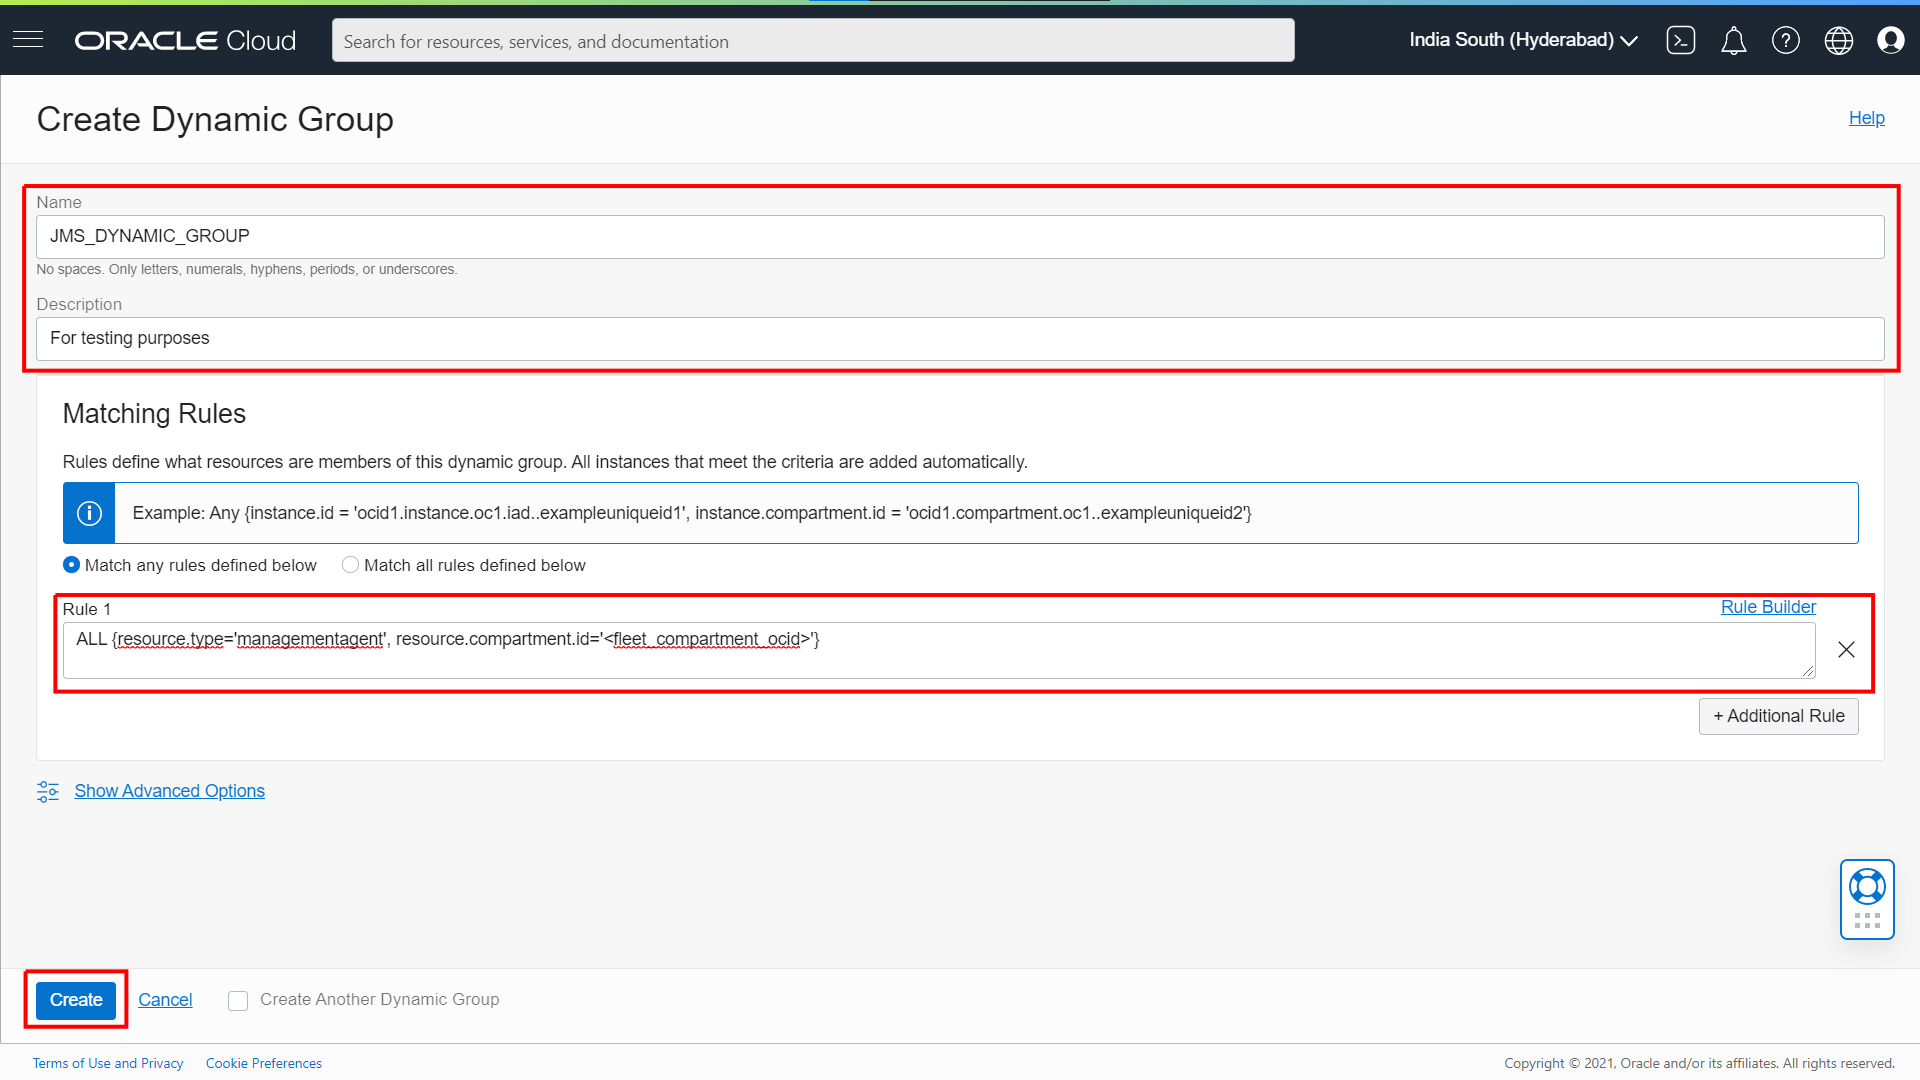
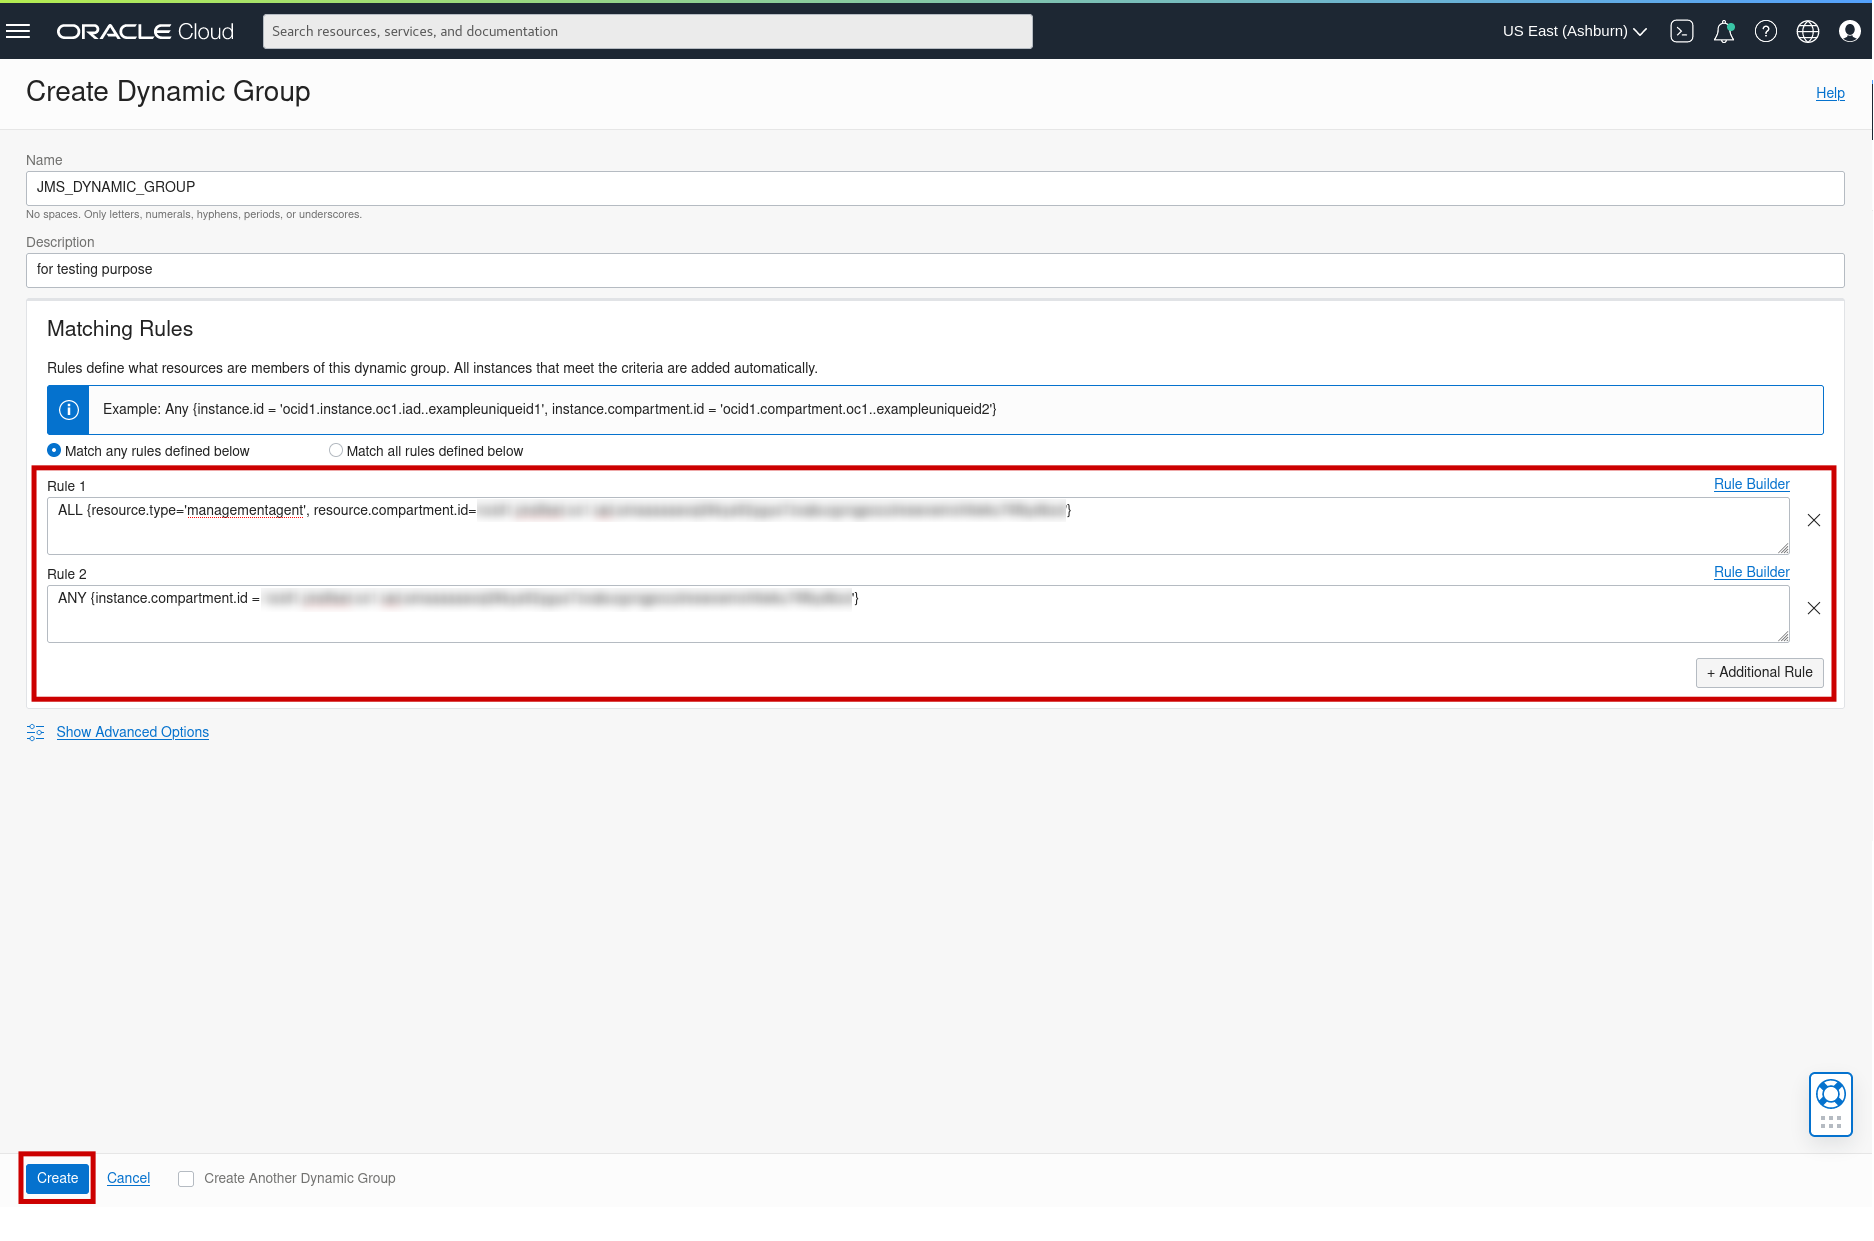
fixed review point 25

diff --git a/oci-library/oci-hol/java-management/set-up-oci-for-jms/set-up-oci-for-jms.md b/oci-library/oci-hol/java-management/set-up-oci-for-jms/set-up-oci-for-jms.md
@@ -186,12 +186,19 @@ Sign in to the Oracle Cloud Console as an administrator using the credentials pr
         &nbsp;
     * In the Create Dynamic Group dialog box, enter a name for the dynamic group (for example, `JMS_DYNAMIC_GROUP`), a description, and a matching rule.
 
-        For **RULE 1**, enter
+        For **Rule 1**, enter
         ```
         <copy>
         ALL {resource.type='managementagent', resource.compartment.id='<fleet_compartment_ocid>'}
         </copy>
         ```
+        Then click on `Additional Rule` button and enter **Rule 2**
+        ```
+        <copy>
+        ANY {instance.compartment.id = '<fleet_compartment_ocid>'}
+        </copy>
+        ```
+
         Replace `<fleet_compartment_ocid>` with the OCID of the compartment that you created in step 1. (You should have pasted it into a text editor.)
         ![image of dynamic groups create page](/../images/dynamic-groups-create-example.png)
         &nbsp;
